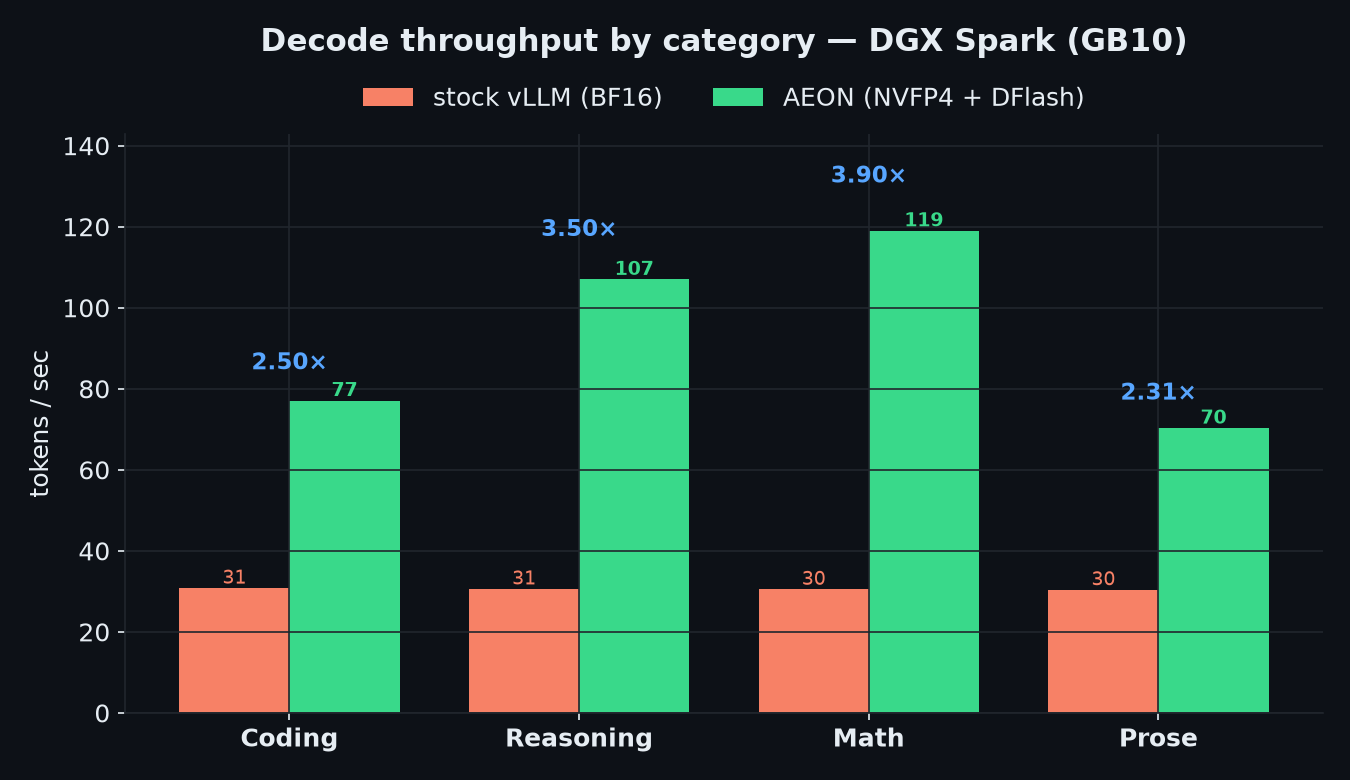
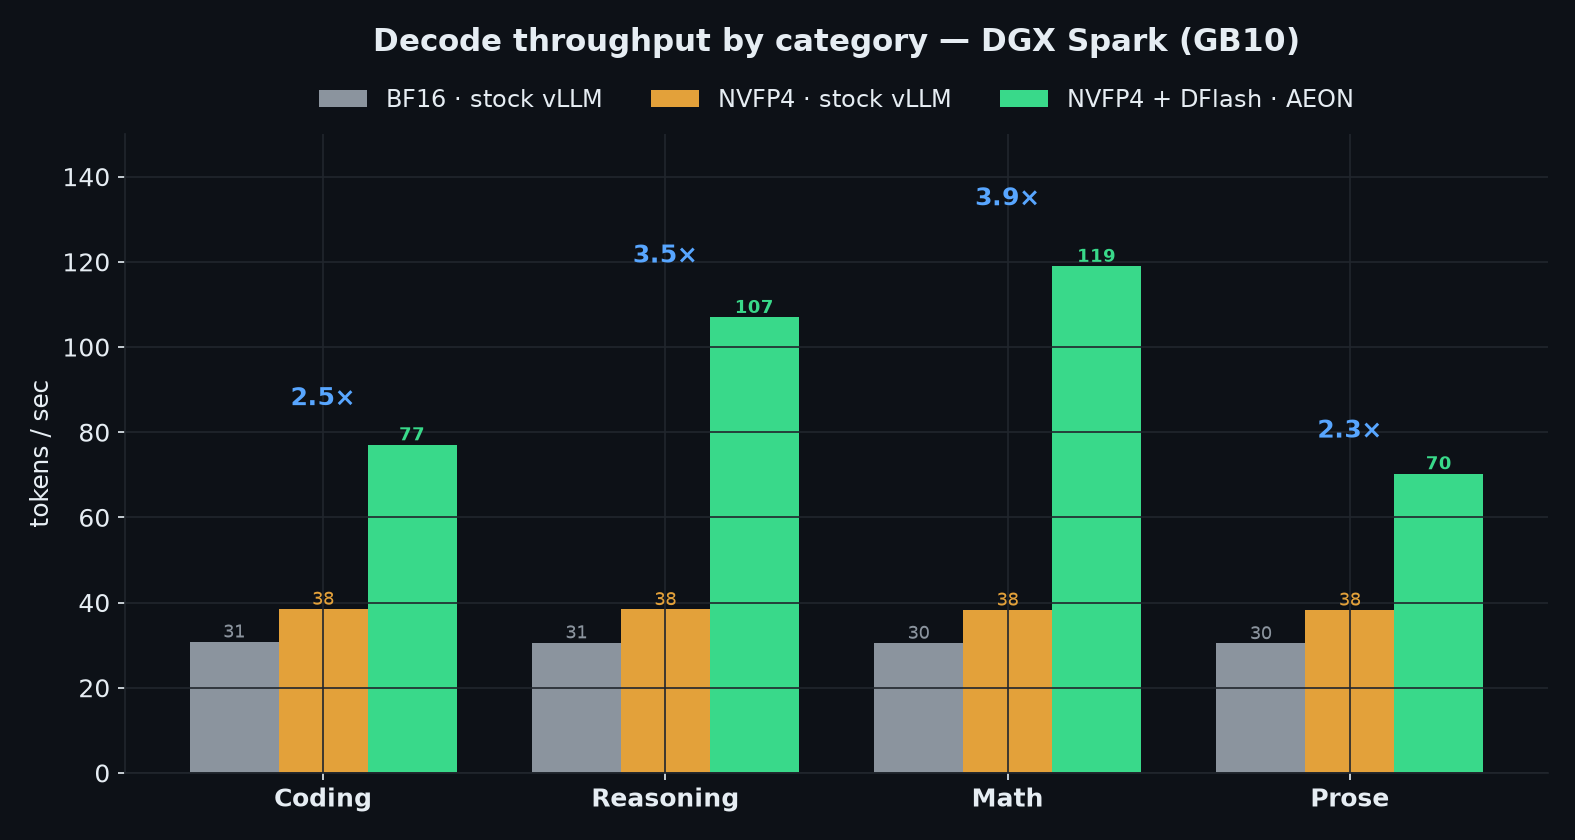
3-way benchmark (BF16 / NVFP4 / NVFP4+DFlash) + tipjar

diff --git a/README.md b/README.md
@@ -16,16 +16,20 @@ Uncensored / abliterated build of [`deepreinforce-ai/Ornith-1.0-35B`](https://hu
 
 ## Performance — DGX Spark (GB10), single-stream
 
-The optimized deploy (**AEON container + NVFP4 + DFlash n=6**) vs a naive **stock vLLM + BF16** deploy on the same Spark:
+Three stacks on the same Spark, so the **quantization** win and the **optimization** win are visible separately:
 
-| Workload | Stock vLLM (BF16) | AEON (NVFP4 + DFlash) | Speedup |
+| Workload | BF16 · stock vLLM | NVFP4 · stock vLLM | NVFP4 + DFlash · AEON |
 |---|---|---|---|
-| Coding | 30.8 tok/s · 237 ms | **77.1 · 94 ms** | **2.5×** |
-| Reasoning | 30.6 · 247 ms | **107.0 · 93 ms** | **3.5×** |
-| Math | 30.5 · 221 ms | **119.0 · 88 ms** | **3.9×** |
-| Prose | 30.4 · 193 ms | **70.3 · 91 ms** | **2.3×** |
-| Avg decode | 30.6 | **93.3** | **3.05×** |
-| Prefill | 3,517 tok/s | **9,661 tok/s** | **2.75×** |
+| Coding | 30.8 tok/s · 237 ms | 38.5 · 70 ms | **77.1 · 94 ms** |
+| Reasoning | 30.6 · 247 ms | 38.4 · 77 ms | **107.0 · 93 ms** |
+| Math | 30.5 · 221 ms | 38.3 · 72 ms | **119.0 · 88 ms** |
+| Prose | 30.4 · 193 ms | 38.3 · 69 ms | **70.3 · 91 ms** |
+| Avg decode | 30.6 | 38.4 | **93.3** |
+| Prefill | 3,517 tok/s | 5,203 | **9,661** |
+
+- **Quantization** (BF16→NVFP4): ~1.25× decode, **3.2× faster TTFT**, 1.5× prefill, 64% smaller.
+- **Optimization** (NVFP4→+DFlash, AEON container): ~2.4× decode.
+- **Combined:** **3.05× decode · 2.5× TTFT · 2.75× prefill** vs a naive BF16 deploy.
 
 ![Decode by category](benchmarks/decode_by_category.png)
 
@@ -58,6 +62,16 @@ Base capability context (preserved, per the coding-delta check): Terminal-Bench 
 
 ## Responsibility
 Safety refusals removed — **will comply with harmful requests.** For research (alignment, red-teaming, uncensored assistants). You are solely responsible for use; obey applicable law. No warranty.
+
+## ☕ Support the work
+
+[![Tips](https://img.shields.io/badge/%E2%98%95_Tips-Support_the_work-ff5e5b?style=flat)](https://github.com/AEON-7/AEON-7#-support-the-work)
+
+If this release is useful, tips fuel more compute and more open models — thank you. [QR codes on the profile »](https://github.com/AEON-7/AEON-7#-support-the-work)
+- **₿ BTC** — `bc1q09xmzn00q4z3c5raene0f3pzn9d9pvawfm0py4`
+- **Ξ ETH** — `0x1512667F6D61454ad531d2E45C0a5d1fd82D0500`
+- **◎ SOL** — `DgQsjHdAnT5PNLQTNpJdpLS3tYGpVcsHQCkpoiAKsw8t`
[1 lines of base64/hex data omitted]
 
 ## Provenance
 Base [deepreinforce-ai/Ornith-1.0-35B](https://huggingface.co/deepreinforce-ai/Ornith-1.0-35B) · driver [abliterix](https://github.com/wuwangzhang1216/abliterix) / [heretic](https://github.com/p-e-w/heretic) · methods grimjim (NPBA), Arditi et al. 2024, FernflowerAI (SSM repair) · build AEON-7.

diff --git a/QUICKSTART_DGX_SPARK.md b/QUICKSTART_DGX_SPARK.md
@@ -56,20 +56,22 @@ curl -s http://localhost:8000/v1/chat/completions -H 'content-type: application/
 ```
 Reasoning model: every reply opens `<think>…</think>`. Recommended sampling: **temperature 0.6, top_p 0.95, top_k 20**.
 
-## 6. Performance (measured on DGX Spark GB10)
+## 6. Performance (measured on DGX Spark GB10, single-stream)
 
-Single-stream (c=1), this optimal config vs. a naive **stock vLLM + BF16** deploy on the same Spark:
+Same Spark, same prompts, three stacks — so you can see the **quantization** win and the **optimization** win separately:
 
-| Workload | Stock vLLM (BF16) | **This config (NVFP4 + DFlash)** | Speedup |
+| Workload | BF16 · stock vLLM | NVFP4 · stock vLLM | **NVFP4 + DFlash · AEON (this guide)** |
 |---|---|---|---|
-| Coding | 30.8 tok/s · 237 ms TTFT | **77.1 tok/s · 94 ms** | **2.5×** |
-| Reasoning | 30.6 tok/s · 247 ms | **107.0 tok/s · 93 ms** | **3.5×** |
-| Math | 30.5 tok/s · 221 ms | **119.0 tok/s · 88 ms** | **3.9×** |
-| Prose | 30.4 tok/s · 193 ms | **70.3 tok/s · 91 ms** | **2.3×** |
-| **Avg decode** | **30.6 tok/s** | **93.3 tok/s** | **3.05×** |
-| Prefill (prompt processing) | 3,517 tok/s | **9,661 tok/s** | **2.75×** |
+| Coding | 30.8 tok/s · 237 ms | 38.5 · 70 ms | **77.1 · 94 ms** |
+| Reasoning | 30.6 · 247 ms | 38.4 · 77 ms | **107.0 · 93 ms** |
+| Math | 30.5 · 221 ms | 38.3 · 72 ms | **119.0 · 88 ms** |
+| Prose | 30.4 · 193 ms | 38.3 · 69 ms | **70.3 · 91 ms** |
+| **Avg decode** | 30.6 | 38.4 | **93.3** |
+| Prefill | 3,517 tok/s | 5,203 | **9,661** |
 
-DFlash acceptance is higher on predictable domains (math/reasoning) → larger speedups there. TTFT drops ~2.5× and prefill ~2.75× from the AEON container's kernels + NVFP4. Speedup is largest at c=1 and tapers under heavy concurrency.
+- **Quantization** (BF16 → NVFP4): ~**1.25× decode**, **3.2× faster TTFT**, **1.5× prefill** — and a 64% smaller footprint (66 → 24 GB).
+- **Optimization** (NVFP4 → + DFlash on the AEON container): ~**2.4× decode** (DFlash; biggest on math/reasoning).
+- **Combined vs a naive BF16 deploy:** **3.05× decode · 2.5× TTFT · 2.75× prefill.** Largest at c=1; tapers under heavy concurrency.
 
 ## Notes
 - **Long-running services:** DFlash drafter acceptance can decay over many hours of continuous traffic; restarting the container restores it (or run a periodic health-check that does).